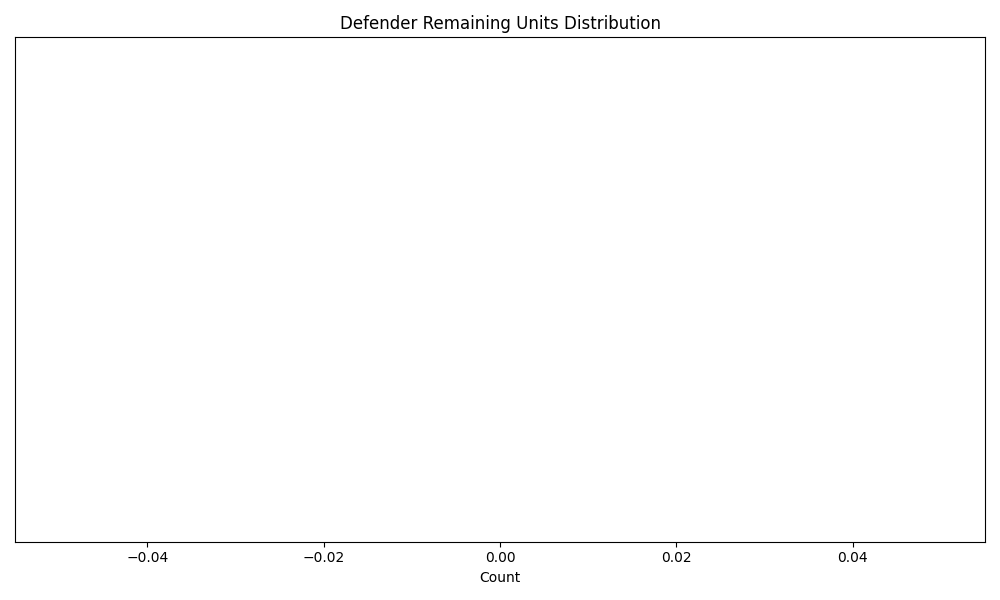
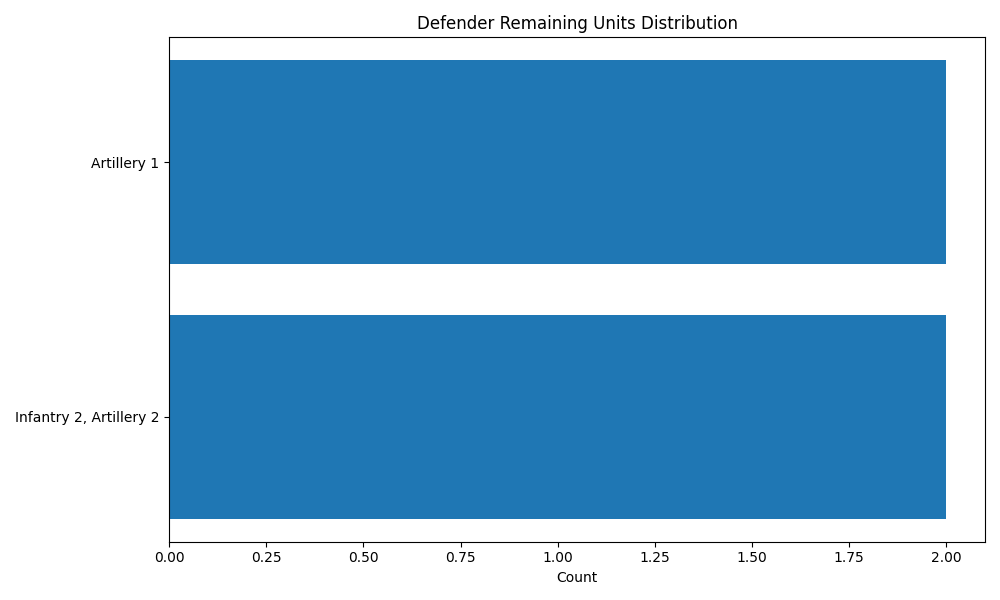
Cleaning up the dictionary that is returned to the simulate page to make it a cleaner string

diff --git a/templates/index.html b/templates/index.html
@@ -15,7 +15,7 @@
 <body>
     <div class="container mt-5">
         <h1 class="text-center">Battle Simulation</h1>
-        <form action="/simulate" method="post">
+        <form id="battle-form" action="/simulate" method="post">
             <div class="row">
                 <div class="col-md-6">
                     <h2>Attacking Units</h2>
@@ -28,7 +28,7 @@
                                 <label for="attack_{{ unit|lower }}" class="col-form-label">{{ unit }}:</label>
                             </div>
                             <div class="col-4">
-                                <input type="number" class="form-control" id="attack_{{ unit|lower }}" name="attack_{{ unit|lower }}" min="0" value="0">
+                                <input type="number" class="form-control" id="attack_{{ unit|lower }}" name="attack_{{ unit|lower }}" min="0" value="{{ form_data.get('attack_' + unit|lower, 0) }}">
                             </div>
                         </div>
                     {% endfor %}
@@ -44,7 +44,7 @@
                                 <label for="defense_{{ unit|lower }}" class="col-form-label">{{ unit }}:</label>
                             </div>
                             <div class="col-4">
-                                <input type="number" class="form-control" id="defense_{{ unit|lower }}" name="defense_{{ unit|lower }}" min="0" value="0">
+                                <input type="number" class="form-control" id="defense_{{ unit|lower }}" name="defense_{{ unit|lower }}" min="0" value="{{ form_data.get('defense_' + unit|lower, 0) }}">
                             </div>
                         </div>
                     {% endfor %}
@@ -52,15 +52,38 @@
             </div>
             <div class="form-group mt-4">
                 <label for="number_of_simulations">Number of Simulations:</label>
-                <input type="number" class="form-control" id="number_of_simulations" name="number_of_simulations" min="1" value="1">
+                <input type="number" class="form-control" id="number_of_simulations" name="number_of_simulations" min="1" value="{{ form_data.get('number_of_simulations', 1) }}">
             </div>
             <div class="text-center mt-4">
                 <button type="submit" class="btn btn-primary">Simulate Battle</button>
+                <button type="button" class="btn btn-secondary" onclick="clearForm()">Clear Form</button>
             </div>
         </form>
     </div>
     <script src="https://code.jquery.com/jquery-3.5.1.slim.min.js"></script>
     <script src="https://cdn.jsdelivr.net/npm/@popperjs/core@2.5.3/dist/umd/popper.min.js"></script>
     <script src="https://stackpath.bootstrapcdn.com/bootstrap/4.5.2/js/bootstrap.min.js"></script>
+    <script>
+        function clearForm() {
+            // Get the form element
+            var form = document.getElementById("battle-form");
+            if (form) {
+                // Get all input elements within the form
+                var inputs = form.getElementsByTagName('input');
+                // Iterate over each input element
+                for (var i = 0; i < inputs.length; i++) {
+                    // If the input type is number, reset its value to 0
+                    if (inputs[i].type === 'number') {
+                        inputs[i].value = 0;
+                    } else {
+                        // Otherwise, reset its value to an empty string
+                        inputs[i].value = '';
+                    }
+                }
+                // Remove query parameters from URL to clear form_data
+                window.history.replaceState({}, document.title, window.location.pathname);
+            }
+        }
+    </script>
 </body>
 </html>

diff --git a/templates/result.html b/templates/result.html
@@ -18,7 +18,7 @@
                 <h2>Attacker Remaining Units After Each Win</h2>
                 <ul class="list-group">
                 {% for units, count in attacker_remaining_units_count.items() %}
-                    <li class="list-group-item">{{ units }}: {{ count }}</li>
+                    <li class="list-group-item">{{ units | format_key }}: {{ count }}</li>
                 {% endfor %}
                 </ul>
                 <img src="{{ attacker_plot_path }}" alt="Attacker Remaining Units Distribution" class="img-fluid mt-3">
@@ -27,7 +27,7 @@
                 <h2>Defender Remaining Units After Each Win</h2>
                 <ul class="list-group">
                 {% for units, count in defender_remaining_units_count.items() %}
-                    <li class="list-group-item">{{ units }}: {{ count }}</li>
+                    <li class="list-group-item">{{ units | format_key }}: {{ count }}</li>
                 {% endfor %}
                 </ul>
                 <img src="{{ defender_plot_path }}" alt="Defender Remaining Units Distribution" class="img-fluid mt-3">
@@ -35,7 +35,12 @@
         </div>
 
         <div class="text-center mt-4">
-            <a href="/" class="btn btn-primary">Simulate Another Battle</a>
+            <form action="/" method="get">
+                {% for key, value in form_data.items() %}
+                    <input type="hidden" name="{{ key }}" value="{{ value }}">
+                {% endfor %}
+                <button type="submit" class="btn btn-primary">Simulate Another Battle</button>
+            </form>
         </div>
     </div>
     <script src="https://code.jquery.com/jquery-3.5.1.slim.min.js"></script>

diff --git a/routers/simulate.py b/routers/simulate.py
@@ -9,6 +9,12 @@ templates = Jinja2Templates(directory="templates")
 
 router = APIRouter()
 
+def format_key(key):
+    return ', '.join([f"{unit} {num}" for unit, num in key])
+
+# Add the custom filter to the Jinja2 environment
+templates.env.filters['format_key'] = format_key
+
 @router.post("/simulate", response_class=HTMLResponse)
 async def simulate_battle_endpoint(request: Request,
                                    attack_infantry: int = Form(0),
@@ -64,21 +70,80 @@ async def simulate_battle_endpoint(request: Request,
     attacker_win_count, defender_win_count, ties, attacker_remaining_units_count, defender_remaining_units_count = run_multiple_battle_sims(
         attacking_units, defending_units, number_of_simulations)
 
+    # Filter out units with a quantity of 0
+    filtered_attacker_remaining_units_count = {}
+
+    for key_tuple, value in attacker_remaining_units_count.items():
+        # Create a new tuple with items where the value is not zero
+        new_key_tuple = tuple(item for item in key_tuple if item[1] != 0)
+        # Add to the new dictionary
+        filtered_attacker_remaining_units_count[new_key_tuple] = value
+
+    print(filtered_attacker_remaining_units_count)
+
+    filtered_defender_remaining_units_count = {}
+
+    for key_tuple, value in defender_remaining_units_count.items():
+        # Create a new tuple with items where the value is not zero
+        new_key_tuple = tuple(item for item in key_tuple if item[1] != 0)
+        # Add to the new dictionary
+        filtered_defender_remaining_units_count[new_key_tuple] = value
+
+    # Iterate through the dictionary
+    list_defender_remaining_units_count = [] = []
+    for key, value in filtered_defender_remaining_units_count.items():
+        # Create a string for the current key
+        print(key, value)
+        key_str = ', '.join([f"{unit} {num}" for unit, num in key])
+        # Append the formatted string to the list
+        list_defender_remaining_units_count.append(f"{key_str}: {value}")
+
+    # Join the formatted components into a single string
+    str_defender_remaining_units_count = ', '.join(list_defender_remaining_units_count)
+
+    print("string defender remaining")
+    print(str_defender_remaining_units_count)
+
     attacker_plot_path = "static/attacker_plot.png"
     defender_plot_path = "static/defender_plot.png"
 
-    plot_results(attacker_remaining_units_count, "Attacker Remaining Units Distribution", attacker_plot_path)
-    plot_results(defender_remaining_units_count, "Defender Remaining Units Distribution", defender_plot_path)
+    plot_results(filtered_attacker_remaining_units_count, "Attacker Remaining Units Distribution", attacker_plot_path)
+    plot_results(filtered_defender_remaining_units_count, "Defender Remaining Units Distribution", defender_plot_path)
+
+    form_data = {
+        "attack_infantry": attack_infantry,
+        "attack_artillery": attack_artillery,
+        "attack_tank": attack_tank,
+        "attack_fighter": attack_fighter,
+        "attack_bomber": attack_bomber,
+        "attack_submarine": attack_submarine,
+        "attack_destroyer": attack_destroyer,
+        "attack_cruiser": attack_cruiser,
+        "attack_aircraft_carrier": attack_aircraft_carrier,
+        "attack_battleship": attack_battleship,
+        "defense_infantry": defense_infantry,
+        "defense_artillery": defense_artillery,
+        "defense_tank": defense_tank,
+        "defense_fighter": defense_fighter,
+        "defense_bomber": defense_bomber,
+        "defense_submarine": defense_submarine,
+        "defense_destroyer": defense_destroyer,
+        "defense_cruiser": defense_cruiser,
+        "defense_aircraft_carrier": defense_aircraft_carrier,
+        "defense_battleship": defense_battleship,
+        "number_of_simulations": number_of_simulations
+    }
 
     return templates.TemplateResponse("result.html", {
         "request": request,
         "attacker_win_count": attacker_win_count,
         "defender_win_count": defender_win_count,
         "ties": ties,
-        "attacker_remaining_units_count": dict(attacker_remaining_units_count),
-        "defender_remaining_units_count": dict(defender_remaining_units_count),
+        "attacker_remaining_units_count": dict(filtered_attacker_remaining_units_count),
+        "defender_remaining_units_count": dict(filtered_defender_remaining_units_count),
         "attacker_plot_path": "/" + attacker_plot_path,
         "defender_plot_path": "/" + defender_plot_path,
         "initial_attacking_units": initial_attacking_units,
-        "initial_defending_units": initial_defending_units
+        "initial_defending_units": initial_defending_units,
+        "form_data": form_data
     })

diff --git a/functs/plot_results.py b/functs/plot_results.py
@@ -3,6 +3,8 @@ import matplotlib.pyplot as plt
 import os
 from collections import defaultdict
 
+def format_key(key):
+    return ', '.join([f"{unit} {num}" for unit, num in key])
 
 def plot_results(units_count, title, filename):
     units_dict = defaultdict(int)
@@ -13,7 +15,7 @@ def plot_results(units_count, title, filename):
     values = []
 
     for units, count in units_dict.items():
-        labels.append(dict(units))
+        labels.append(format_key(units))
         values.append(count)
 
     plt.figure(figsize=(10, 6))

diff --git a/routers/home.py b/routers/home.py
@@ -12,4 +12,5 @@ templates = Jinja2Templates(directory="templates")
 router = APIRouter()
 @router.get("/", response_class=HTMLResponse)
 async def read_form(request: Request):
-    return templates.TemplateResponse("index.html", {"request": request, "units": units})
+    form_data = dict(request.query_params)
+    return templates.TemplateResponse("index.html", {"request": request, "units": units, "form_data": form_data})
